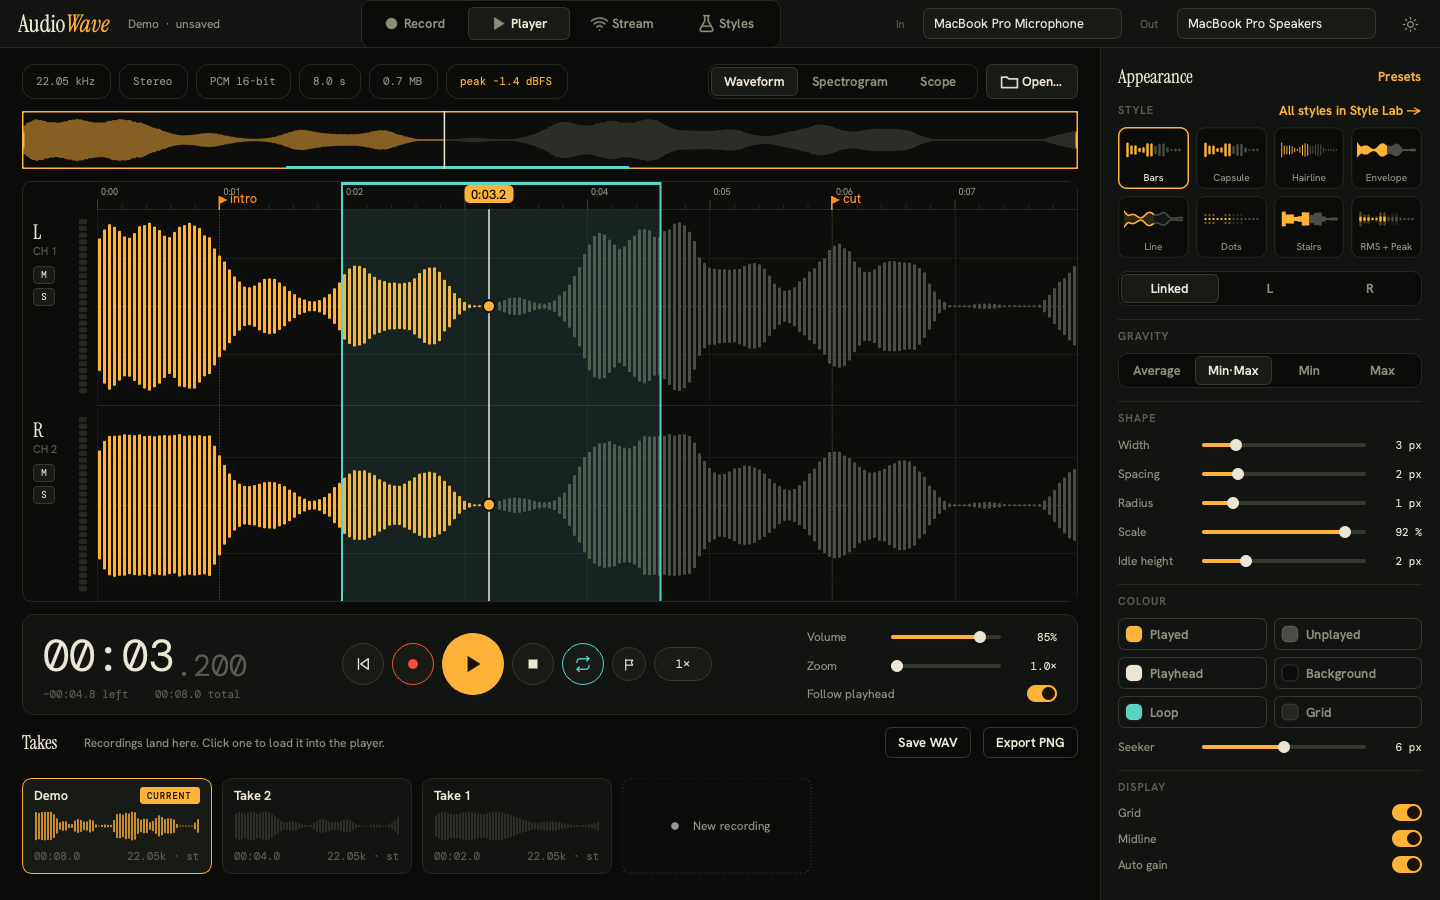
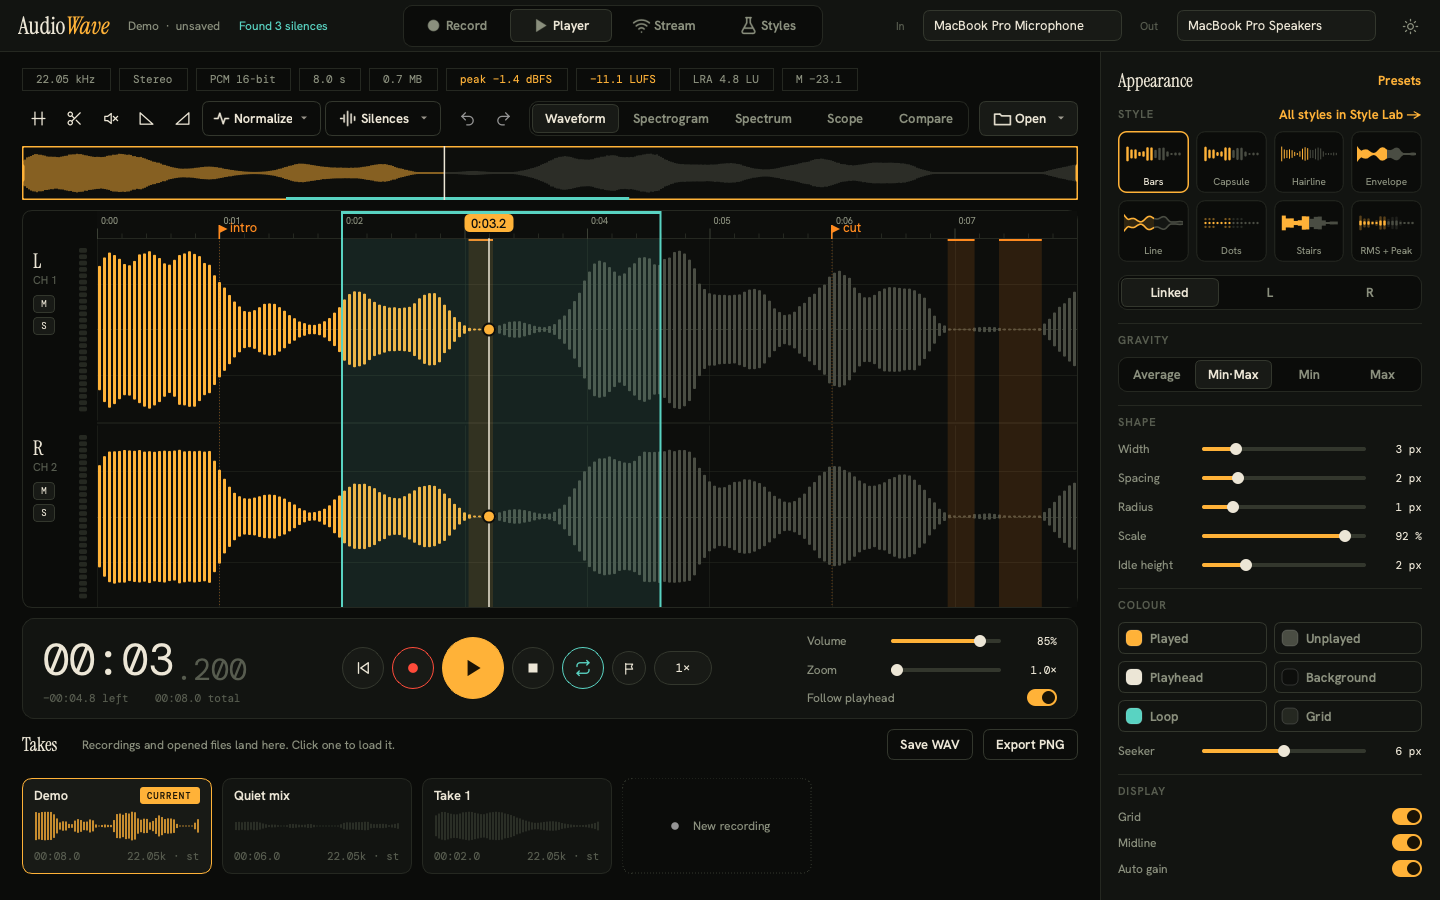
Add tests to validate runnable code examples in README
- Introduced a new test file `test_readme.py` to execute code blocks marked with `<!-- readme-test -->` in the README.
- Implemented a mechanism to run examples in a controlled environment, ensuring no audio is played during tests.
- Verified that the README contains at least 8 runnable examples and that each example executes without errors.

diff --git a/scripts/screenshots.py b/scripts/screenshots.py
@@ -10,16 +10,24 @@ from pathlib import Path
 
 os.environ.setdefault("QT_QPA_PLATFORM", "offscreen")
 
-from PySide6.QtCore import QCoreApplication
+from PySide6.QtCore import QCoreApplication, QEventLoop, QTimer
 from PySide6.QtWidgets import QApplication
 from studio.demo import demo_clip
 from studio.main import build_window
+from studio.stream import StreamReceiver
 from studio.theme import DARK, LIGHT
 
 from audiowave import Loop
 
 OUT = Path(__file__).resolve().parent.parent / "docs" / "screenshots"
 SIZE = (1440, 900)
+
+
+def settle(ms: int = 1500) -> None:
+    """Run the event loop for a while so background analysis (loudness) can finish."""
+    loop = QEventLoop()
+    QTimer.singleShot(ms, loop.quit)
+    loop.exec()
 
 
 def main() -> int:
@@ -31,31 +39,70 @@ def main() -> int:
     window.show()
 
     s = window._s
-    s.takes.add(demo_clip(4.0), name="Take 2", select=False)
+    s.takes.add(demo_clip(6.0).gain(0.3), name="Quiet mix", select=False)
     s.takes.add(demo_clip(2.0), name="Take 1", select=False)
     s.takes.set_current(next(iter(s.takes)))
     s.set_loop_region(Loop(2.0, 4.6))
     s.add_marker(1.0, "intro")
     s.add_marker(6.0, "cut")
     page = window.player_page
-    for view in (page.waveform, page.overview):
-        view.set_position(3.2)
-    page.transport.set_time(3.2, s.clip.duration)
+    s.player.seek(
+        3.2
+    )  # the real player drives every view's playhead, the time readout and the spectrum
+    s.find_silences(threshold_db=-40, min_duration=0.15)
+    settle()
 
-    shots = [
-        ("studio-player", "player", False),
-        ("studio-record", "record", False),
-        ("studio-stream", "stream", False),
-        ("studio-styles", "styles", False),
-        ("studio-player-light", "player", True),
-    ]
     OUT.mkdir(parents=True, exist_ok=True)
-    for name, page_key, light in shots:
+
+    def shot(name: str, page_key: str, view: str | None = None, light: bool = False) -> None:
         window.apply_theme(LIGHT if light else DARK)
         window.show_page(page_key)
-        app.processEvents()
+        if view:
+            page.view_switch.set_current(view, emit=True)
+        settle(600)
         window.grab().save(str(OUT / f"{name}.png"))
         print("wrote", OUT / f"{name}.png")
+
+    loud = (
+        float(abs(s.clip.channel(0)).argmax()) / s.clip.sample_rate
+    )  # a moment with plenty going on
+
+    shot("studio-player", "player", "waveform")
+    shot("studio-spectrogram", "player", "spectrogram")
+    s.player.seek(loud)
+    shot("studio-spectrum", "player", "spectrum")
+    shot("studio-scope", "player", "scope")
+    s.player.seek(3.2)
+    page.view_switch.set_current("compare", emit=True)
+    page.compare.combo.setCurrentIndex(page.compare.combo.findText("Quiet mix"))
+    shot("studio-compare", "player", "compare")
+    page.view_switch.set_current("waveform", emit=True)
+    shot("studio-record", "record")
+    shot("studio-styles", "styles")
+    shot("studio-player-light", "player", "waveform", light=True)
+
+    # Stream: a real sender and a real receiver talking over loopback, so the page shows genuine frames.
+    stream = window.stream_page
+    stream.port.setValue(6789)
+    stream.main_button.click()
+    remote = StreamReceiver()
+    remote.connect_to("127.0.0.1", 6789)
+    while stream.sender.client_count < 1:
+        settle(100)
+    stream.send_button.click()
+    settle(2500)
+    shot("studio-stream", "stream")
+    remote.disconnect_from()
+    stream.main_button.click()
+
+    # mp3: opened through the decoder like any other file.
+    s.open_file(Path(__file__).resolve().parent.parent / "tests" / "assets" / "test_stereo.mp3")
+    while not any(t.name == "test_stereo" for t in s.takes):
+        settle(200)
+    settle(1500)
+    shot("studio-mp3", "player", "waveform")
+    app.processEvents()
+    s.shutdown()
     return 0
 
 

diff --git a/studio/session.py b/studio/session.py
@@ -57,6 +57,7 @@ class Session(QObject):
         self._silences: list[Loop] = []
         self._loudness: Loudness | None = None
         self._loudness_cache: dict[int, tuple[AudioClip, Loudness]] = {}
+        self._loudness_waiters: dict[int, list] = {}
         self._busy = False
         self._decoders: set[AudioDecoder] = set()
 
@@ -178,22 +179,37 @@ class Session(QObject):
             self.loudnessChanged.emit(result)
 
     def loudness_of(self, clip: AudioClip, callback) -> None:
-        """Measure ``clip`` in the background (cached) and call ``callback(Loudness)`` on the UI thread."""
-        cached = self._loudness_cache.get(id(clip))
+        """Measure ``clip`` in the background (cached) and call ``callback(Loudness)`` on the UI thread.
+
+        Concurrent requests for the same clip share one measurement and all get their callback, so
+        two parts of the UI asking at once cannot starve each other.
+        """
+        key = id(clip)
+        cached = self._loudness_cache.get(key)
         if cached is not None and cached[0] is clip:
             callback(cached[1])
             return
+        waiting = self._loudness_waiters.get(key)
+        if waiting is not None:
+            waiting.append(callback)
+            return
+        self._loudness_waiters[key] = [callback]
 
         def store(result: Loudness) -> None:
-            self._loudness_cache[id(clip)] = (
+            self._loudness_cache[key] = (
                 clip,
                 result,
             )  # holding ``clip`` keeps its id from being reused
             while len(self._loudness_cache) > _LOUDNESS_CACHE:
                 self._loudness_cache.pop(next(iter(self._loudness_cache)))
-            callback(result)
+            for waiter in self._loudness_waiters.pop(key, []):
+                waiter(result)
 
-        self.tasks.submit(f"loudness-{id(clip)}", lambda: measure(clip), store)
+        def failed(text: str) -> None:
+            self._loudness_waiters.pop(key, None)
+            self.message.emit(f"Could not measure loudness: {text}", True)
+
+        self.tasks.submit(f"loudness-{key}", lambda: measure(clip), store, failed)
 
     # -- loop / selection -----------------------------------------------------------------------
 

diff --git a/tests/test_readme.py b/tests/test_readme.py
@@ -1,0 +1,51 @@
+"""Every code block in the README that is marked ``<!-- readme-test -->`` is executed for real.
+
+The README uses friendly file names; here they are backed by the test assets:
+song.wav -> test_stereo.wav, voice.mp3 -> test_stereo.mp3. Code runs in a scratch directory (so ``out.wav``
+etc. do not litter the repo), headless, silent, and any ``app.exec()`` returns after half a second.
+"""
+
+import os
+import re
+import shutil
+import subprocess
+import sys
+from pathlib import Path
+
+import pytest
+
+ROOT = Path(__file__).resolve().parent.parent
+README = (ROOT / "README.md").read_text()
+BLOCKS = re.findall(r"<!-- readme-test -->\s*```python\n(.*?)```", README, re.S)
+
+PRELUDE = """
+import sys
+from PySide6.QtCore import QTimer
+from PySide6.QtWidgets import QApplication
+_exec = QApplication.exec
+QApplication.exec = staticmethod(lambda *a, **k: (QTimer.singleShot(500, QApplication.instance().quit), _exec(*a, **k))[1])
+from audiowave.audio import player as _player
+_init = _player.AudioPlayer.__init__
+def _silent_init(self, *a, **k):
+    _init(self, *a, **k)
+    self._volume = 0.0  # the README plays audio; the test must not
+_player.AudioPlayer.__init__ = _silent_init
+"""
+
+
+def test_the_readme_has_runnable_examples():
+    assert len(BLOCKS) >= 8, "the README should demonstrate the library with code that is tested"
+
+
+@pytest.mark.parametrize("index", range(len(BLOCKS)))
+def test_readme_example_runs(index, tmp_path):
+    assets = ROOT / "tests" / "assets"
+    shutil.copy(assets / "test_stereo.wav", tmp_path / "song.wav")
+    shutil.copy(assets / "test_stereo.mp3", tmp_path / "voice.mp3")
+    script = tmp_path / "example.py"
+    script.write_text(PRELUDE + BLOCKS[index])
+    env = {**os.environ, "QT_QPA_PLATFORM": "offscreen"}
+    result = subprocess.run(
+        [sys.executable, str(script)], cwd=tmp_path, env=env, capture_output=True, text=True, timeout=120
+    )
+    assert result.returncode == 0, f"README block {index} failed:\n{BLOCKS[index]}\n{result.stderr[-1500:]}"

diff --git a/tests/studio/test_session_features.py b/tests/studio/test_session_features.py
@@ -256,3 +256,33 @@ def test_recent_files_are_unique_newest_first_capped_and_prune_missing(tmp_path)
         p.name
         for p in RecentFiles(QSettings(str(tmp_path / "r.ini"), QSettings.Format.IniFormat)).paths()
     ] == []
+
+
+# -- regression: concurrent loudness requests -----------------------------------------------------
+
+
+def test_simultaneous_loudness_requests_for_one_clip_all_get_answers(qtbot, session):
+    """Two consumers (e.g. the info chips and the compare panel) asking at once must both be answered."""
+    clip = tone_clip(8.0)
+    answers = []
+    session.loudness_of(clip, lambda result: answers.append(("first", result)))
+    session.loudness_of(
+        clip, lambda result: answers.append(("second", result))
+    )  # while the first is still running
+    qtbot.waitUntil(lambda: len(answers) == 2, timeout=15000)
+    assert [who for who, _ in answers] == ["first", "second"] and answers[0][1] is answers[1][1]
+
+
+def test_adding_a_take_does_not_disturb_the_current_take_or_its_loudness(qtbot, window):
+    """The screenshot scenario: other takes arrive while the first is still being measured."""
+    s = window._s
+    viewport_before = (s.viewport.start, s.viewport.end, s.viewport.duration)
+    s.takes.add(tone_clip(3.0), name="Extra", select=False)
+    s.takes.add(tone_clip(9.0), name="Longer", select=False)
+    qtbot.waitUntil(lambda: s.loudness is not None, timeout=15000)
+    assert (
+        s.viewport.start,
+        s.viewport.end,
+        s.viewport.duration,
+    ) == viewport_before  # untouched by hidden compare panel
+    assert "LUFS" in window.player_page._lufs_chip.text()

diff --git a/studio/pages/player_page.py b/studio/pages/player_page.py
@@ -291,12 +291,16 @@ class PlayerPage(QWidget):
             return
         size_mb = clip.frames * clip.channels * 2 / 1_000_000
         channels = {1: "Mono", 2: "Stereo"}.get(clip.channels, f"{clip.channels} ch")
+        take = self._s.takes.current
+        source = (
+            take.path.suffix[1:].upper() if take and take.path and take.path.suffix else "Recorded"
+        )
         for c, text in zip(
             self._chips,
             (
                 f"{clip.sample_rate / 1000:g} kHz",
                 channels,
-                "PCM 16-bit",
+                source,
                 f"{clip.duration:.1f} s",
                 f"{size_mb:.1f} MB",
             ),
@@ -339,7 +343,10 @@ class PlayerPage(QWidget):
             window = clip.samples[:, max(end - int(METER_WINDOW * clip.sample_rate), 0) : end]
             self.strip.set_levels([float(np.abs(c).max()) if c.size else 0.0 for c in window])
         if self.stack.currentWidget() is self.spectrum:
-            mono = clip.samples[:, max(end - SPECTRUM_WINDOW, 0) : end].mean(axis=0)
+            start = max(
+                end - SPECTRUM_WINDOW, 0
+            )  # the window ending at the playhead; from the start if too early
+            mono = clip.samples[:, start : start + SPECTRUM_WINDOW].mean(axis=0)
             self.spectrum.feed(mono, clip.sample_rate)
 
     def _on_state(self, state: PlayerState) -> None:

diff --git a/studio/widgets/compare_panel.py b/studio/widgets/compare_panel.py
@@ -60,8 +60,9 @@ class ComparePanel(QWidget):
         col.addWidget(self._label_b)
         col.addWidget(self.wave_b, 1)
 
-        session.takes.added.connect(lambda _t: self.refresh())
-        session.takes.removed.connect(lambda _t: self.refresh())
+        # Only rebuild while visible: refreshing touches the shared viewport, which belongs to whichever view is showing.
+        session.takes.added.connect(lambda _t: self.isVisible() and self.refresh())
+        session.takes.removed.connect(lambda _t: self.isVisible() and self.refresh())
         session.takes.renamed.connect(lambda _t: self._update_labels())
 
     def _header(self) -> QHBoxLayout:

diff --git a/tests/studio/test_player_features.py b/tests/studio/test_player_features.py
@@ -255,3 +255,10 @@ def test_record_page_shows_a_live_spectrum_of_incoming_audio(window):
     assert abs(page.spectrum.centres[int(page.spectrum.levels.argmax())] - 2000) < 300
     page._on_state(page._s.recorder.state)  # back to idle clears it
     assert (page.spectrum.levels <= -90).all()
+
+
+def test_spectrum_shows_something_even_before_the_playhead_has_audio_behind_it(window):
+    page = window.player_page
+    window._s.player.seek(0.0)
+    page.view_switch.set_current("spectrum", emit=True)
+    assert page.spectrum.levels.max() > -60  # analyses the first window instead of showing nothing
